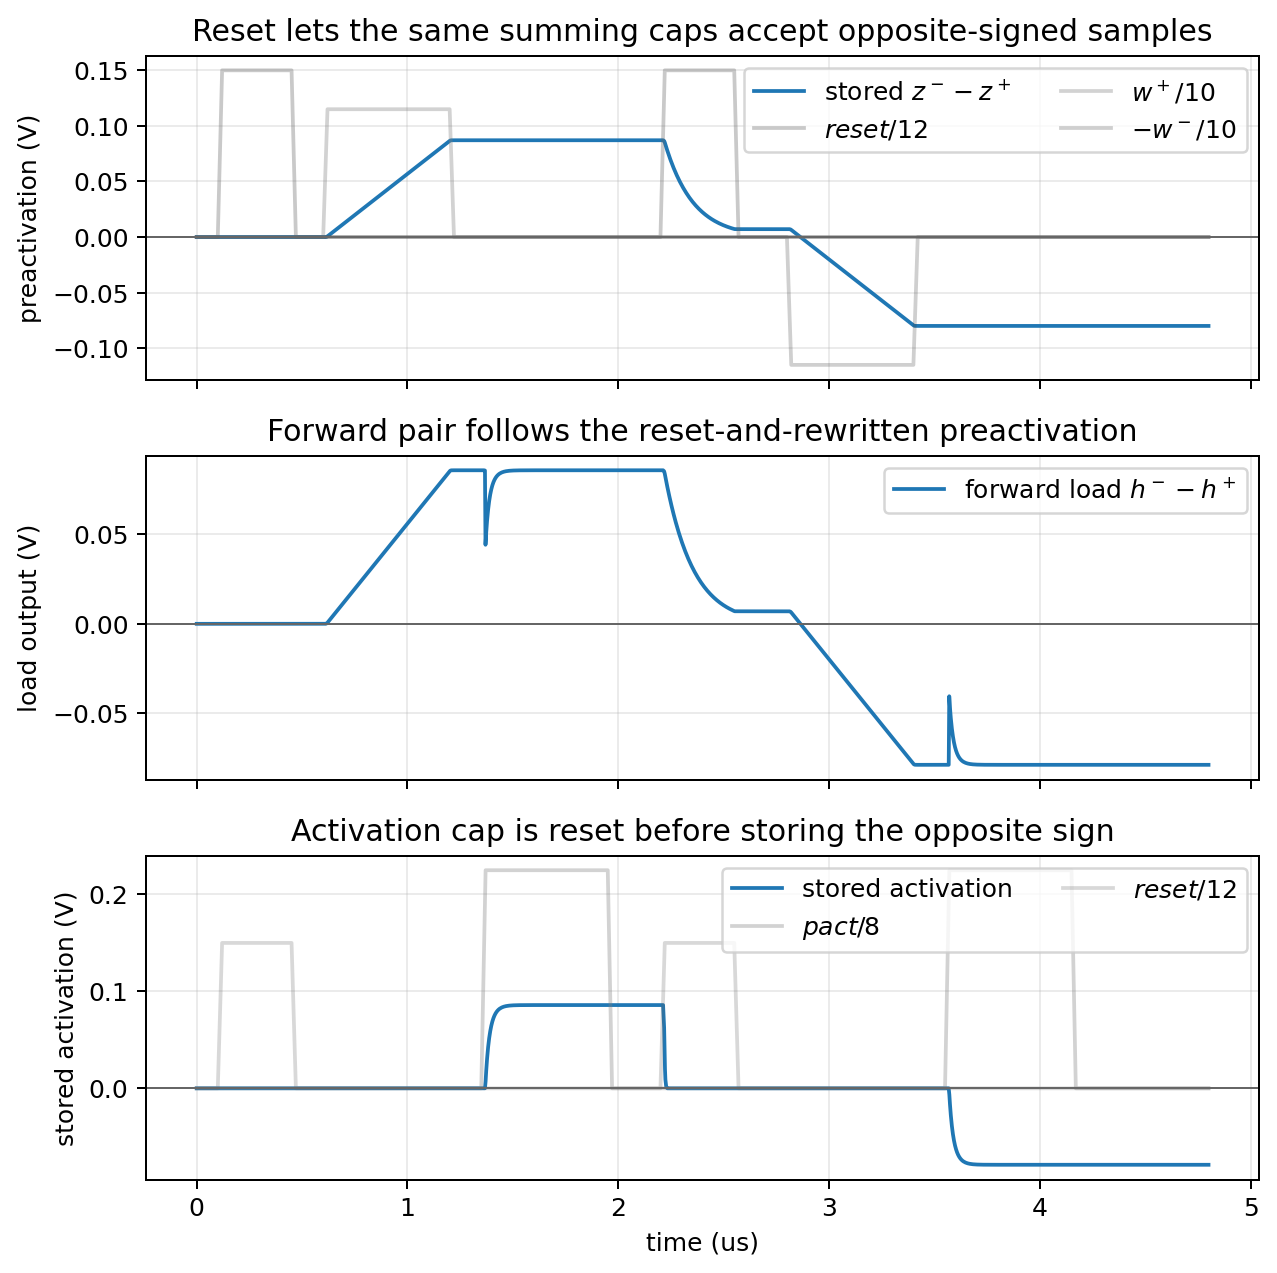
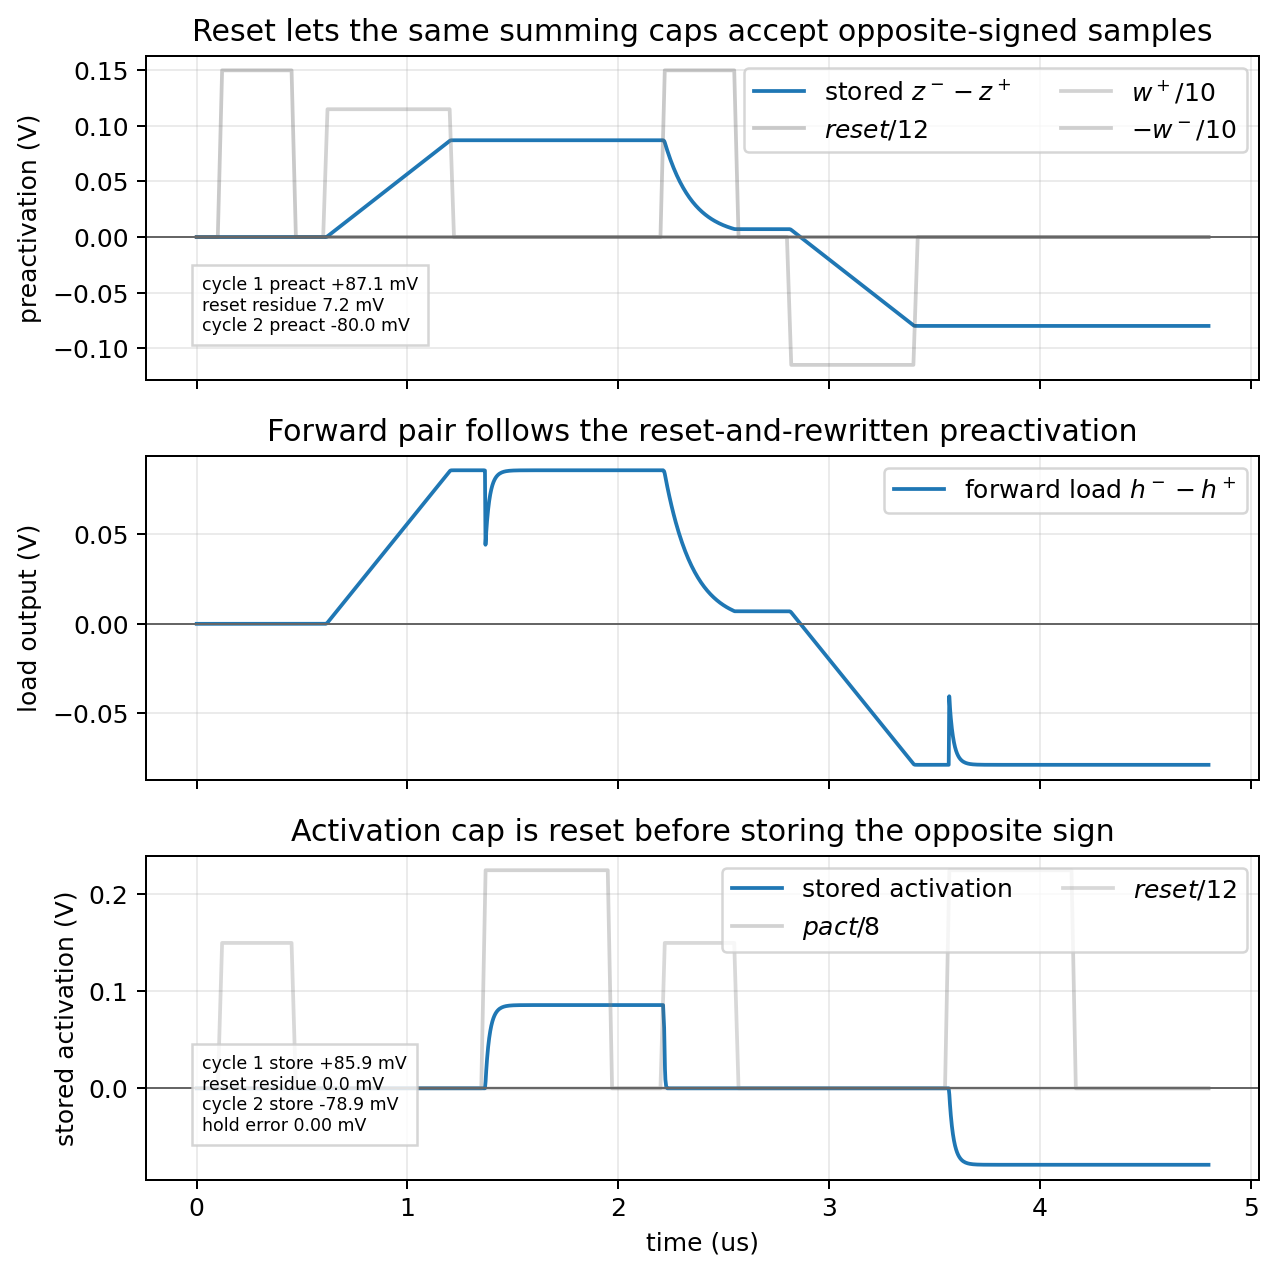
Annotate synapse forward chain margins

Changed region(s): [[0.1527, 0.8272, 0.3359, 0.8885], [0.1527, 0.2145, 0.3359, 0.2757]]

diff --git a/spice/run_mos_cell_characterization.py b/spice/run_mos_cell_characterization.py
@@ -1422,6 +1422,16 @@ quit
     require(at(1.95e-6, neg_store) < -0.05, "pact should store negative chained activation")
     require(at(2.80e-6, pos_store) > 0.05, "positive chained activation should hold after pact")
     require(at(2.80e-6, neg_store) < -0.05, "negative chained activation should hold after pact")
+    chain_pos_preact = at(1.20e-6, pos_preact)
+    chain_neg_preact = at(1.20e-6, neg_preact)
+    chain_pos_load = at(1.25e-6, pos_load)
+    chain_neg_load = at(1.25e-6, neg_load)
+    chain_pos_store = at(1.95e-6, pos_store)
+    chain_neg_store = at(1.95e-6, neg_store)
+    chain_hold_error = max(
+        abs(at(2.80e-6, pos_store) - chain_pos_store),
+        abs(at(2.80e-6, neg_store) - chain_neg_store),
+    )
 
     cycle_data = run_ngspice(cycle_deck, "mos_synapse_forward_cycle")
     ct, cycle_cols = load_wrdata(cycle_data, 10)
@@ -1439,6 +1449,13 @@ quit
     require(cycle_at(3.45e-6, cycle_preact) < -0.075, "second cycle should write negative preactivation")
     require(cycle_at(4.10e-6, cycle_store) < -0.05, "second cycle should store negative activation")
     require(cycle_at(4.60e-6, cycle_store) < -0.05, "second-cycle stored activation should hold")
+    cycle_first_preact = cycle_at(1.25e-6, cycle_preact)
+    cycle_first_store = cycle_at(1.90e-6, cycle_store)
+    cycle_reset_preact = cycle_at(2.55e-6, cycle_preact)
+    cycle_reset_store = cycle_at(2.55e-6, cycle_store)
+    cycle_second_preact = cycle_at(3.45e-6, cycle_preact)
+    cycle_second_store = cycle_at(4.10e-6, cycle_store)
+    cycle_hold_error = abs(cycle_at(4.60e-6, cycle_store) - cycle_second_store)
 
     timing_data = run_ngspice(timing_deck, "mos_synapse_forward_phase_timing")
     tt, timing_cols = load_wrdata(timing_data, len(timing_prints) + 1)
@@ -1464,8 +1481,14 @@ quit
     require(timing_final[1] < 0.95 * timing_final[-1], "write-edge pact sample should remain below the settled activation")
     require(np.min(timing_final[2:]) > 0.95 * timing_final[-1], "pact pulses after preactivation settling should store the full activation")
     require(np.max(timing_final[2:]) - np.min(timing_final[2:]) < 0.004, "settled pact timings should agree")
+    timing_pre_sample = float(timing_final[0])
+    timing_edge_sample = float(timing_final[1])
+    timing_settled_sample = float(timing_final[-1])
+    timing_settled_spread = float(np.max(timing_final[2:]) - np.min(timing_final[2:]))
+    timing_edge_fraction = timing_edge_sample / max(timing_settled_sample, 1e-30)
 
     fig, axes = plt.subplots(3, 1, figsize=(7.2, 7.2), sharex=True)
+    callout_box = {"facecolor": "white", "alpha": 0.82, "edgecolor": "0.8"}
     axes[0].plot(1e6 * t, pos_preact, label="$w^+$ stored $z^- - z^+$")
     axes[0].plot(1e6 * t, neg_preact, "--", label="$w^-$ stored $z^- - z^+$")
     axes[0].plot(1e6 * t, cols[12] / 8.0, color="0.5", alpha=0.35, label="$w_{gate}/8$")
@@ -1474,6 +1497,19 @@ quit
     axes[0].set_title("Synapse writes signed preactivation onto real summing caps")
     axes[0].grid(True, alpha=0.25)
     axes[0].legend(loc="upper right")
+    axes[0].text(
+        0.06,
+        0.15,
+        "\n".join(
+            [
+                f"W+ preact {1e3 * chain_pos_preact:+.1f} mV",
+                f"W- preact {1e3 * chain_neg_preact:+.1f} mV",
+            ]
+        ),
+        transform=axes[0].transAxes,
+        fontsize="x-small",
+        bbox=callout_box,
+    )
     axes[1].plot(1e6 * t, pos_load, label="positive path load $h^- - h^+$")
     axes[1].plot(1e6 * t, neg_load, "--", label="negative path load $h^- - h^+$")
     axes[1].axhline(0, color="0.4", linewidth=0.8)
@@ -1481,6 +1517,19 @@ quit
     axes[1].set_title("Crossed forward gates preserve the voltage-coded sign")
     axes[1].grid(True, alpha=0.25)
     axes[1].legend(loc="upper right")
+    axes[1].text(
+        0.06,
+        0.15,
+        "\n".join(
+            [
+                f"W+ load {1e3 * chain_pos_load:+.1f} mV",
+                f"W- load {1e3 * chain_neg_load:+.1f} mV",
+            ]
+        ),
+        transform=axes[1].transAxes,
+        fontsize="x-small",
+        bbox=callout_box,
+    )
     axes[2].plot(1e6 * t, pos_store, label="stored positive activation")
     axes[2].plot(1e6 * t, neg_store, "--", label="stored negative activation")
     axes[2].plot(1e6 * t, cols[13] / 8.0, color="0.5", alpha=0.35, label="$pact/8$")
@@ -1490,6 +1539,20 @@ quit
     axes[2].set_title("Activation storage samples and holds the chained result")
     axes[2].grid(True, alpha=0.25)
     axes[2].legend(loc="upper right")
+    axes[2].text(
+        0.06,
+        0.15,
+        "\n".join(
+            [
+                f"W+ store {1e3 * chain_pos_store:+.1f} mV",
+                f"W- store {1e3 * chain_neg_store:+.1f} mV",
+                f"hold error {1e3 * chain_hold_error:.2f} mV",
+            ]
+        ),
+        transform=axes[2].transAxes,
+        fontsize="x-small",
+        bbox=callout_box,
+    )
     fig.tight_layout()
     chain_plot = save_plot(fig, "mos_synapse_forward_chain_ngspice")
 
@@ -1503,6 +1566,20 @@ quit
     cycle_axes[0].set_title("Reset lets the same summing caps accept opposite-signed samples")
     cycle_axes[0].grid(True, alpha=0.25)
     cycle_axes[0].legend(loc="upper right", ncol=2)
+    cycle_axes[0].text(
+        0.05,
+        0.15,
+        "\n".join(
+            [
+                f"cycle 1 preact {1e3 * cycle_first_preact:+.1f} mV",
+                f"reset residue {1e3 * abs(cycle_reset_preact):.1f} mV",
+                f"cycle 2 preact {1e3 * cycle_second_preact:+.1f} mV",
+            ]
+        ),
+        transform=cycle_axes[0].transAxes,
+        fontsize="x-small",
+        bbox=callout_box,
+    )
     cycle_axes[1].plot(1e6 * ct, cycle_load, label="forward load $h^- - h^+$")
     cycle_axes[1].axhline(0, color="0.4", linewidth=0.8)
     cycle_axes[1].set_ylabel("load output (V)")
@@ -1518,6 +1595,21 @@ quit
     cycle_axes[2].set_title("Activation cap is reset before storing the opposite sign")
     cycle_axes[2].grid(True, alpha=0.25)
     cycle_axes[2].legend(loc="upper right", ncol=2)
+    cycle_axes[2].text(
+        0.05,
+        0.15,
+        "\n".join(
+            [
+                f"cycle 1 store {1e3 * cycle_first_store:+.1f} mV",
+                f"reset residue {1e3 * abs(cycle_reset_store):.1f} mV",
+                f"cycle 2 store {1e3 * cycle_second_store:+.1f} mV",
+                f"hold error {1e3 * cycle_hold_error:.2f} mV",
+            ]
+        ),
+        transform=cycle_axes[2].transAxes,
+        fontsize="x-small",
+        bbox=callout_box,
+    )
     cycle_fig.tight_layout()
     save_plot(cycle_fig, "mos_synapse_forward_cycle_ngspice")
 
@@ -1530,6 +1622,19 @@ quit
     timing_axes[0].set_title("Synapse and forward load settle before pact sampling")
     timing_axes[0].grid(True, alpha=0.25)
     timing_axes[0].legend(loc="upper right")
+    timing_axes[0].text(
+        0.06,
+        0.15,
+        "\n".join(
+            [
+                f"preact @1.25us {1e3 * timing_at(1.25e-6, timing_preact):+.1f} mV",
+                f"settled load {1e3 * timing_at(1.25e-6, timing_loads[-1]):+.1f} mV",
+            ]
+        ),
+        transform=timing_axes[0].transAxes,
+        fontsize="x-small",
+        bbox=callout_box,
+    )
     for (_name, label, _start_us, _end_us), stored in zip(timing_cases, timing_stores):
         timing_axes[1].plot(1e6 * tt, stored, label=label)
     timing_axes[1].axhline(0, color="0.4", linewidth=0.8)
@@ -1538,6 +1643,20 @@ quit
     timing_axes[1].set_title("pact timing sweep exposes the write/store margin")
     timing_axes[1].grid(True, alpha=0.25)
     timing_axes[1].legend(loc="lower right", ncol=2)
+    timing_axes[1].text(
+        0.06,
+        0.64,
+        "\n".join(
+            [
+                f"pre-write sample {1e3 * timing_pre_sample:+.1f} mV",
+                f"edge sample {1e3 * timing_edge_sample:+.1f} mV ({100 * timing_edge_fraction:.0f}%)",
+                f"settled spread {1e3 * timing_settled_spread:.2f} mV",
+            ]
+        ),
+        transform=timing_axes[1].transAxes,
+        fontsize="x-small",
+        bbox=callout_box,
+    )
     timing_fig.tight_layout()
     save_plot(timing_fig, "mos_synapse_forward_phase_timing_ngspice")
     return chain_plot

diff --git a/engineering_log.md b/engineering_log.md
@@ -2,6 +2,23 @@
 
 ## 2026-05-25
 
+- Clarified the synapse-to-forward-store integration plots.  The ngspice decks
+  already asserted signed synapse storage on real summing capacitors, crossed
+  forward-pair sign preservation, activation-cap storage/hold, reset reuse
+  across opposite-signed samples, and pact timing margins.  The regenerated
+  `mos_synapse_forward_chain_ngspice`, `mos_synapse_forward_cycle_ngspice`,
+  and `mos_synapse_forward_phase_timing_ngspice` figures now label those
+  margins directly: the W+/W- chain stores \(+100.9\) mV and \(-100.9\) mV
+  preactivation, the crossed forward pair reads \(+103.4\) mV and
+  \(-103.4\) mV loads, and the activation caps store \(+103.4\) mV and
+  \(-103.4\) mV with no displayed hold error.  The reset/reuse deck stores a
+  \(+87.1\) mV first-cycle preactivation, clears the preactivation residue to
+  \(7.2\) mV, then stores a \(-80.0\) mV second-cycle preactivation; the
+  activation cap similarly stores \(+85.9\) mV, resets to no displayed
+  residue, then stores \(-78.9\) mV.  The pact timing sweep shows no
+  pre-write sample, a \(64.9\) mV write-edge partial sample at \(65\%\) of
+  the settled activation, and only \(0.11\) mV spread once sampling waits for
+  the synapse/forward load to settle.
 - Clarified the MOS forward-pair and activation-store plots.  The ngspice
   decks already asserted monotone bounded transfer, center alignment,
   approximate odd symmetry, positive/negative phase storage, common-mode
